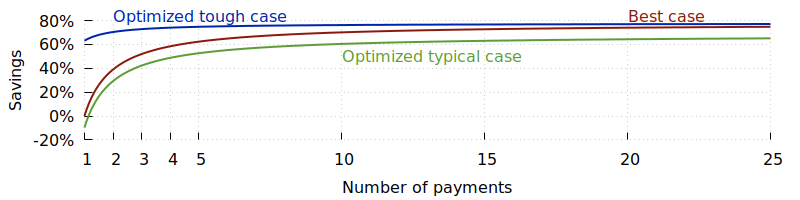
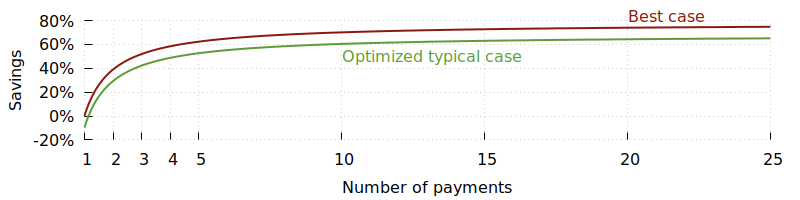
fixup! edits for jnewbery comments

Changed region(s): [[0.125, 0.03, 0.9688, 0.18], [0.0938, 0.18, 0.125, 0.21]]

diff --git a/x.payment_batching/payment_batching.md b/x.payment_batching/payment_batching.md
@@ -1,13 +1,9 @@
 # Payment Batching
 
-It's often possible to add more outputs to a transaction without
-increasing how many inputs it contains, meaning a single transaction can
-increase the number of people it pays faster than it proportionally
-grows in size.  That's scalability, and this chapter describes how
-high-frequency spenders can use this scaling technique of *payment
+This chapter describes how
+high-frequency spenders can use the scaling technique of *payment
 batching* to reduce transaction sizes and fees by about 75% in
 practical situations.
-
 As of February 2019, payment batching is used by multiple popular
 Bitcoin services (mainly exchanges), is available as a built-in feature
 of many wallets (including Bitcoin Core), and should be easy to
@@ -36,17 +32,12 @@ Extrapolating this simple best-case situation, we see that the number of
 vbytes used per receiver asymptotically approaches the size of a single
 output.  This makes the maximum savings possible a bit over 75%.
 
-![Saving rates for best, typical, and tough cases of payment batching](img/p2wpkh-batching-cases-combined.png)
+![Saving rates for best and typical cases of payment batching](img/p2wpkh-batching-cases-combined.png)
 
 Realistically, the more a transaction spends, the more likely it is to
 need additional inputs.  This doesn't prevent payment batching from
 being useful, although it does reduce its effectiveness.  For example,
-we can imagine the tough case of a gambling site that receives bets of
-10 mBTC and pays out winnings of 100 mBTC, requiring at least 10 inputs
-for every output added.  Here, the maximum savings from payment batching
-(without optimizations described later) peak at only about 5%.
-
-Falling between these extremes are a large number of services who
+we expect a typical service to
 receive payments of about the same value as the payments they make, so
 for every output they add, they need to add one input on average.
 Savings in this typical case peak at about 30%.
@@ -63,13 +54,12 @@ efficiency described above.
 If we assume that consolidation transactions will pay only 20% of the
 feerate of a normal transaction and will consolidate 100 inputs at a
 time, we can calculate the savings of using the two-step procedure for
-our 10-to-1 and 1-to-1 scenarios above (while showing, for comparison,
+our one input per output scenario above (while showing, for comparison,
 the simple best-case scenario of already having a large input available).
 
-![Saving rates for best, typical, and tough cases of payment batching after consolidation](img/p2wpkh-batching-after-consolidation.png)
+![Saving rates for best and typical cases of payment batching after consolidation](img/p2wpkh-batching-after-consolidation.png)
 
-Most notably, the savings from consolidation allows the tough case go
-from worst performing to best performing.  For the typical case,
+For the typical case,
 consolidation actually loses money when only making a single payment,
 but when actually batching, it performs almost as well as the best case
 scenario.
@@ -95,17 +85,17 @@ you use a different script type (P2PKH, or multisig using P2SH or
 P2WSH), the number of vbytes used to spend them are even larger, so the
 savings rate will be higher.
 
-## Problems
+## Concerns
 
 The fee-reduction benefits of payment batching do create tradeoffs and
-problems that will need to be addressed by any service using the
+concerns that will need to be addressed by any service using the
 technique.
 
-### Delayed gratification
+### Delays
 
-This is the primary problem with payment batching.  Although some
-situations naturally lend themselves to payment batching (e.g.  sending
-out the company payroll for every employee at the same time), many
+This is the primary concern with payment batching.  Although some
+situations naturally lend themselves to payment batching (e.g. a mining
+pool paying hashrate providers in a block the pool mined), many
 services primarily send money to users when those users make a
 withdrawal request.  In order to batch payments, the service must get
 the user to accept that their payment will not be sent immediately---it
@@ -118,16 +108,16 @@ until you send the batch containing their payment.  Also by delaying
 sending of their payment, you also delay when it's confirmed (all other
 things being equal, such as feerates).
 
-To mitigate the problem of delayed gratification, you may allow the
+To mitigate the problem of delays, you may allow the
 user to choose between an immediate payment and a delayed payment with
 a different fee provided for each option.  For example:
 
     [X] Free withdrawal (payment sent within 6 hours)
     [ ] Immediate withdrawal (withdrawal fee 0.123 mBTC)
 
-## Reduced privacy
+### Reduced privacy
 
-A second problem with payment batching is that it can make users feel
+A second concern with payment batching is that it can make users feel
 like they have less privacy.  Every user you pay in the same transaction
 can reasonably assume that everyone else receiving an output from that
 transaction is being paid by you.  If you had sent separate
@@ -151,9 +141,9 @@ providing significant privacy advantages.  As of February 2019, no
 currently-available coinjoin implementation is fully compatible with the
 needs of payment batching.
 
-## Possible inability to fee bump
+### Possible inability to fee bump
 
-A final problem is that you may not be able to fee bump a batched
+A final concern is that you may not be able to fee bump a batched
 payment.  Transaction relay nodes such as Bitcoin Core impose limits on
 the transactions they relay to prevent attackers from wasting bandwidth,
 CPU, and other node resources.  By yourself, you can easily avoid
@@ -204,7 +194,8 @@ bitcoin-cli sendmany "" '{
 <!-- for max standard tx size: src/policy/policy.h:static const unsigned int MAX_STANDARD_TX_WEIGHT = 400000; -->
 
 If using your own implementation, you are probably already creating
-transactions with two outputs in most cases, so it should be easy to add
+transactions with two outputs in most cases (a payment output and a
+change output), so it should be easy to add
 support for additional outputs.  The only notable consideration is that
 Bitcoin Core nodes (and most other nodes) will refuse to accept or relay
 transactions over 100,000 vbytes, so you should not attempt to send
